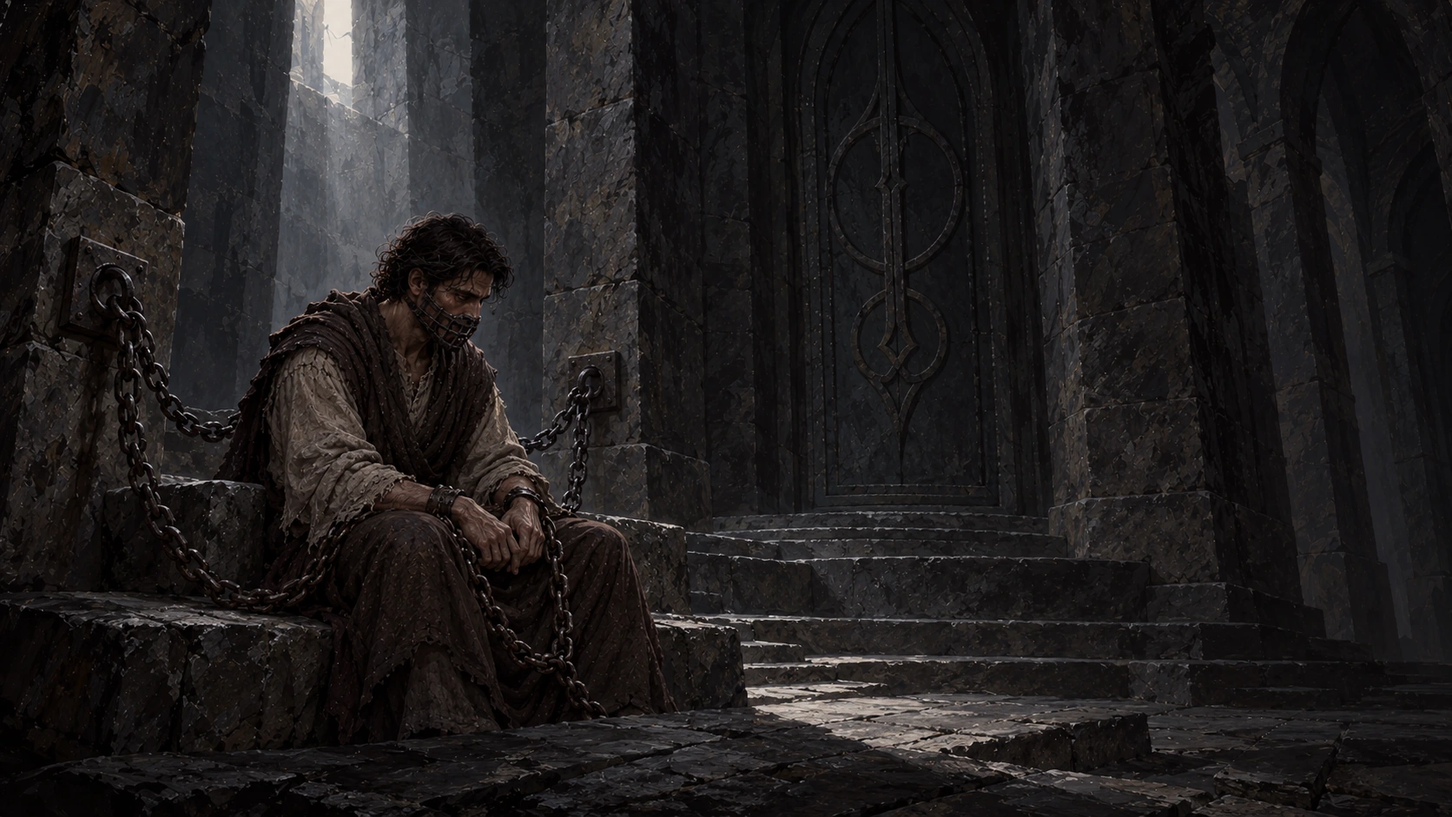
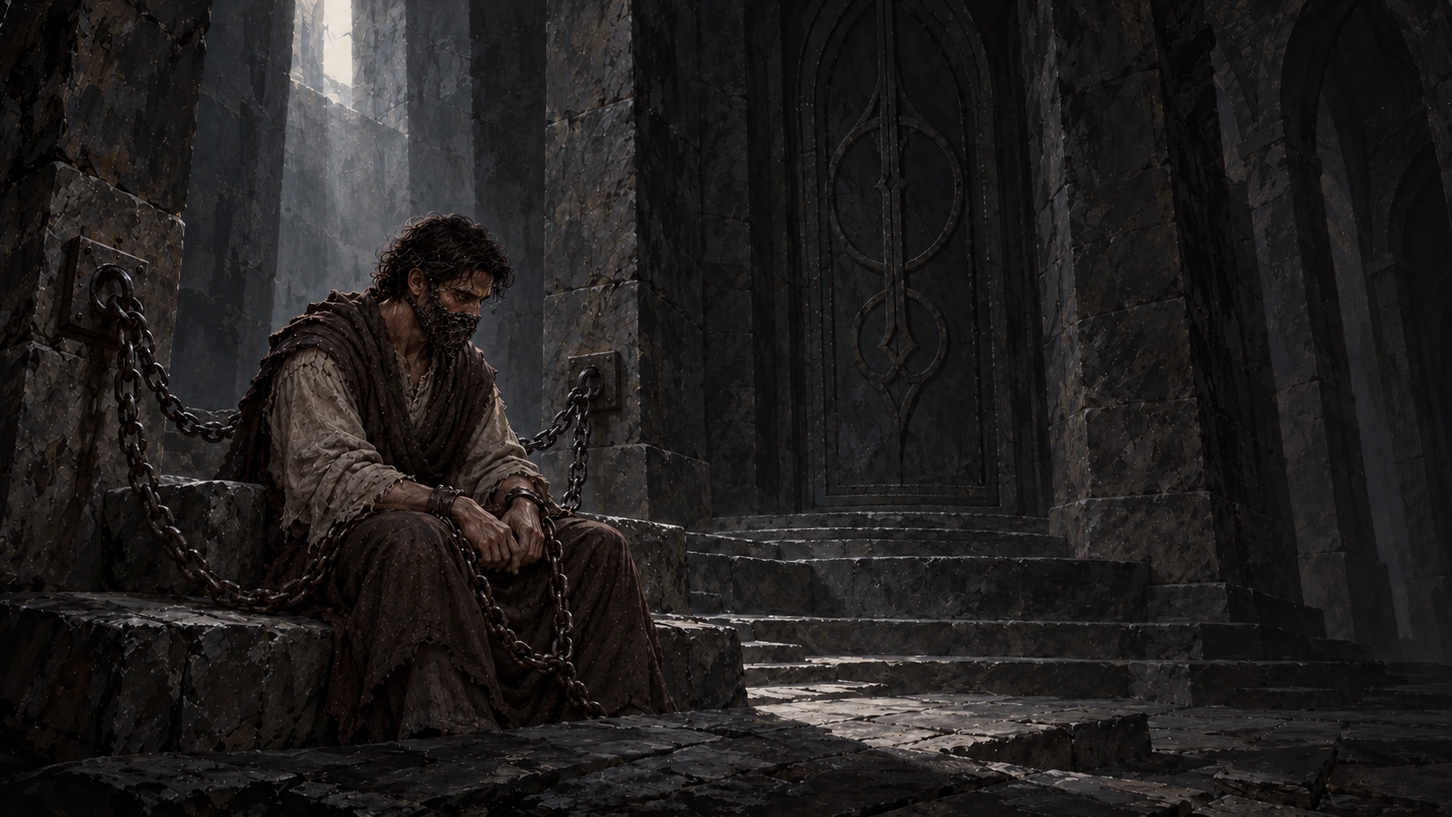
Add files via upload

diff --git a/book-data.js b/book-data.js
@@ -641,7 +641,7 @@ window.ARKVEIN_BOOK = {
       "id": "limbrein-title",
       "title": "ЛИМБРЕЙН",
       "section": "",
-      "image": "limbrein-emblem-matte-cloth.webp?v=arcwane-matte-cloth-v5-20261004",
+      "image": "limbrein-emblem-matte-cloth.webp?v=arcwane-full-page-v38-20261005",
       "alt": "ЛИМБРЕЙН",
       "caption": "Раскрытый полумесяц над готическим остриём — знак Лимбрейна.",
       "type": "chapter",
@@ -1284,7 +1284,7 @@ window.ARKVEIN_BOOK = {
       "id": "avernax-emblem",
       "title": "АВЕРНАКС",
       "section": "",
-      "image": "assets/avernax-075-emblem.webp?v=avernax-20261004-v1",
+      "image": "assets/avernax-075-emblem.webp?v=arcwane-full-page-v38-20261005",
       "alt": "АВЕРНАКС — иллюстрация истории Авернакса.",
       "caption": "Любовь · Клятва · Ведьминский круг",
       "type": "chapter",
@@ -1298,7 +1298,7 @@ window.ARKVEIN_BOOK = {
       "id": "avernax-lands",
       "title": "Земля долгого ожидания",
       "section": "Авернакс · Земли и обычаи",
-      "image": "assets/avernax-076-lands.webp?v=avernax-20261004-v1",
+      "image": "assets/avernax-076-lands.webp?v=arcwane-full-page-v38-20261005",
       "alt": "Земля долгого ожидания — иллюстрация истории Авернакса.",
       "caption": "Здесь незавершённая клятва питает чары. Обещания вплетают в древесину и нити, защищая дома и пути между ними. Авернакс верит: пока данное слово не исполнено, утрата ещё не стала окончательной.",
       "type": "story",
@@ -1315,7 +1315,7 @@ window.ARKVEIN_BOOK = {
       "id": "avernax-old-city",
       "title": "Когда город ещё жил",
       "section": "Авернакс · До разлуки",
-      "image": "assets/avernax-077-old-city.webp?v=avernax-20261004-v1",
+      "image": "assets/avernax-077-old-city.webp?v=arcwane-full-page-v38-20261005",
       "alt": "Когда город ещё жил — иллюстрация истории Авернакса.",
       "caption": "В одном из таких домов жили Невиара и Диоваль. Тогда их будущее измерялось ближайшей зимой, и никто из них не думал о бессмертии.",
       "type": "story",
@@ -1332,7 +1332,7 @@ window.ARKVEIN_BOOK = {
       "id": "avernax-together",
       "title": "До последней двери",
       "section": "Авернакс · До разлуки",
-      "image": "assets/avernax-078-together.webp?v=avernax-20261004-v1",
+      "image": "assets/avernax-078-together.webp?v=arcwane-full-page-v38-20261005",
       "alt": "До последней двери — иллюстрация истории Авернакса.",
       "caption": "Позже в её обрядах останется тот же узел. Но в тот вечер он означал только простую вещь: двое выбрали друг друга и хотели прожить рядом обычную жизнь.",
       "type": "story",
@@ -1349,7 +1349,7 @@ window.ARKVEIN_BOOK = {
       "id": "avernax-vow",
       "title": "Обещание вернуться",
       "section": "Авернакс · До разлуки",
-      "image": "assets/avernax-079-vow.webp?v=avernax-20261004-v1",
+      "image": "assets/avernax-079-vow.webp?v=arcwane-full-page-v38-20261005",
       "alt": "Обещание вернуться — иллюстрация истории Авернакса.",
       "caption": "Он отказался назвать тех, кто помог ему добыть записи об этих обрядах. Правители велели заставить его замолчать навсегда — и сделать его наказание предупреждением для остальных.",
       "type": "story",
@@ -1400,8 +1400,8 @@ window.ARKVEIN_BOOK = {
       "id": "avernax-first-year",
       "title": "Первый год заточения",
       "section": "Авернакс · Башня Диоваля",
-      "image": "assets/avernax-dioval-early.webp?v=arcwane-restored-v37-20261005",
-      "alt": "Молодой Диоваль в первые годы заточения, ещё сохранивший человеческий облик.",
+      "image": "assets/avernax-dioval-early.webp?v=arcwane-claude-gradient-v39-20261005",
+      "alt": "Молодой Диоваль в первый год заточения: рот и подбородок закрывает плетёная железная маска, глаза остаются открытыми.",
       "type": "story",
       "chapter": "avernax",
       "part": "av-prison",
@@ -1434,7 +1434,7 @@ window.ARKVEIN_BOOK = {
       "id": "avernax-tower",
       "title": "Башня без рассвета",
       "section": "Авернакс · Башня Диоваля",
-      "image": "assets/avernax-082-tower.webp?v=avernax-20261004-v1",
+      "image": "assets/avernax-082-tower.webp?v=arcwane-full-page-v38-20261005",
       "alt": "Башня без рассвета — иллюстрация истории Авернакса.",
       "caption": "Он перестал считать годы. Чтобы не забыть Невиару, он повторял её имя про себя и вспоминал, как она завязывала узлы на его рукаве.",
       "type": "story",
@@ -1468,7 +1468,7 @@ window.ARKVEIN_BOOK = {
       "id": "avernax-search",
       "title": "По ту сторону стен",
       "section": "Авернакс · Первые двадцать лет после суда",
-      "image": "assets/avernax-084-search.webp?v=avernax-20261004-v1",
+      "image": "assets/avernax-084-search.webp?v=arcwane-full-page-v38-20261005",
       "alt": "По ту сторону стен — иллюстрация истории Авернакса.",
       "caption": "Когда её лицо начало стареть, она поняла: одной человеческой жизни не хватит. Тогда она ушла в лес, к тем, кого Кернваль называл ведьмами.",
       "type": "story",
@@ -1485,7 +1485,7 @@ window.ARKVEIN_BOOK = {
       "id": "avernax-price",
       "title": "Цена лишних лет",
       "section": "Авернакс · Становление ведьмы",
-      "image": "assets/avernax-085-price.webp?v=arcwane-pages-v36-20261005",
+      "image": "assets/avernax-085-price.webp?v=arcwane-full-page-v38-20261005",
       "alt": "Цена лишних лет — иллюстрация истории Авернакса.",
       "caption": "Светловолосая женщина принесла к корням обрядовую ткань. Она знала цену, но не могла принять жизнь, в которой любимый навсегда останется один. Той ночью она переступила черту, за которой начиналось ведьмовство.",
       "type": "story",
@@ -1502,7 +1502,7 @@ window.ARKVEIN_BOOK = {
       "id": "avernax-neviara",
       "title": "Невиара",
       "section": "Авернакс · Становление ведьмы",
-      "image": "assets/avernax-086-neviara.webp?v=avernax-20261004-v1",
+      "image": "assets/avernax-086-neviara.webp?v=arcwane-full-page-v38-20261005",
       "alt": "Невиара — иллюстрация истории Авернакса.",
       "caption": "Под повязкой она больше не видела ни улиц, ни лиц. Ориентироваться помогали ведьминские чары, но они не возвращали зрение. Всё, чем она стала, было нужно для возвращения одного человека.",
       "type": "story",
@@ -1519,7 +1519,7 @@ window.ARKVEIN_BOOK = {
       "id": "avernax-curse",
       "title": "Те, кто запер дверь",
       "section": "Авернакс · Становление ведьмы",
-      "image": "assets/avernax-087-curse.webp?v=avernax-20261004-v1",
+      "image": "assets/avernax-087-curse.webp?v=arcwane-full-page-v38-20261005",
       "alt": "Те, кто запер дверь — иллюстрация истории Авернакса.",
       "caption": "Месть пережила виновных, но печать сохранилась. Невиара впервые увидела предел своей силы: наказать тюремщиков оказалось легче, чем вернуть любимого.",
       "type": "story",
@@ -1536,7 +1536,7 @@ window.ARKVEIN_BOOK = {
       "id": "avernax-mirror-making",
       "title": "Зеркало Невиары",
       "section": "Авернакс · Зеркало",
-      "image": "assets/avernax-088-mirror-making.webp?v=avernax-20261004-v1",
+      "image": "assets/avernax-088-mirror-making.webp?v=arcwane-full-page-v38-20261005",
       "alt": "Зеркало Невиары — иллюстрация истории Авернакса.",
       "caption": "Зеркало передавало образ Диоваля прямо в сознание ослепшей Невиары. В башне чары показывали ему её облик и доносили голос — без стекла и рамы. Впервые за долгие годы она увидела, что он всё ещё ждёт.",
       "type": "story",
@@ -1570,7 +1570,7 @@ window.ARKVEIN_BOOK = {
       "id": "avernax-mirror-rule",
       "title": "Расстояние в ладонь",
       "section": "Авернакс · Зеркало",
-      "image": "assets/avernax-090-mirror-rule.webp?v=arcwane-final-20261005-v34",
+      "image": "assets/avernax-090-mirror-rule.webp?v=arcwane-full-page-v38-20261005",
       "alt": "Невиара у своего зеркала видит бледного Диоваля, изменённого вечным проклятием; его глаза глубоко запали в тёмные впадины.",
       "caption": "Они выучили движения друг друга. Открытая ладонь означала «я здесь», два касания цепи — «я помню». Невиара касалась стекла, Диоваль — только видения: расстояние между ними оставалось непреодолимым.",
       "type": "story",
@@ -1587,7 +1587,7 @@ window.ARKVEIN_BOOK = {
       "id": "avernax-coven",
       "title": "Первый круг",
       "section": "Авернакс · Рождение круга",
-      "image": "assets/avernax-091-coven.webp?v=avernax-20261004-v1",
+      "image": "assets/avernax-091-coven.webp?v=arcwane-full-page-v38-20261005",
       "alt": "Первый круг — иллюстрация истории Авернакса.",
       "caption": "Так возник Авернакс. Его участники называли себя свидетелями клятвы: каждый вступал ради собственной утраты, но служил кругу, начатому ради Диоваля.",
       "type": "story",
@@ -1604,7 +1604,7 @@ window.ARKVEIN_BOOK = {
       "id": "avernax-kernval",
       "title": "Кернваль",
       "section": "Авернакс · Кернваль",
-      "image": "assets/avernax-092-kernval.webp?v=avernax-20261004-v1",
+      "image": "assets/avernax-092-kernval.webp?v=arcwane-full-page-v38-20261005",
       "alt": "Кернваль — иллюстрация истории Авернакса.",
       "caption": "Башня Диоваля виднелась с каждой высокой кровли. Невиара запретила скрывать её за новыми постройками: никто не должен был забывать, ради чего существует Авернакс.",
       "type": "story",
@@ -1621,7 +1621,7 @@ window.ARKVEIN_BOOK = {
       "id": "avernax-houses",
       "title": "Дома под узлом",
       "section": "Авернакс · Кернваль",
-      "image": "assets/avernax-093-houses.webp?v=avernax-20261004-v1",
+      "image": "assets/avernax-093-houses.webp?v=arcwane-full-page-v38-20261005",
       "alt": "Дома под узлом — иллюстрация истории Авернакса.",
       "caption": "В каждом доме оставляли закрытую комнату для незавершённой клятвы. Её не отдавали гостям и не открывали без разрешения хозяина.",
       "type": "story",
@@ -1638,7 +1638,7 @@ window.ARKVEIN_BOOK = {
       "id": "avernax-ritual-hall",
       "title": "Дом свидетелей",
       "section": "Авернакс · Кернваль",
-      "image": "assets/avernax-094-ritual-hall.webp?v=avernax-20261004-v1",
+      "image": "assets/avernax-094-ritual-hall.webp?v=arcwane-full-page-v38-20261005",
       "alt": "Дом свидетелей — иллюстрация истории Авернакса.",
       "caption": "Невиара оставила для Диоваля место рядом со своим. За столетия никто не решился занять пустое кресло.",
       "type": "story",
@@ -1706,7 +1706,7 @@ window.ARKVEIN_BOOK = {
       "id": "avernax-army",
       "title": "Те, кто идут за клятвой",
       "section": "Авернакс · Защитники Авернакса",
-      "image": "assets/avernax-098-army.webp?v=avernax-20261004-v1",
+      "image": "assets/avernax-098-army.webp?v=arcwane-full-page-v38-20261005",
       "alt": "Те, кто идут за клятвой — иллюстрация истории Авернакса.",
       "caption": "Авернакс не обещал им исцеления. Он давал имя, место и дело — и требовал, чтобы ни один связанный обещанием не был брошен в одиночестве.",
       "type": "story",
@@ -1723,7 +1723,7 @@ window.ARKVEIN_BOOK = {
       "id": "avernax-sarvel",
       "title": "Сарвель",
       "section": "Авернакс · Защитники Авернакса",
-      "image": "assets/avernax-099-sarvel.webp?v=avernax-20261004-v1",
+      "image": "assets/avernax-099-sarvel.webp?v=arcwane-full-page-v38-20261005",
       "alt": "Сарвель — иллюстрация истории Авернакса.",
       "caption": "Он отличает приглашённого гостя по узлу на его рукаве. Ведьмы развязывают свои знаки перед уходом, чтобы Сарвель не последовал за ними за пределы города.",
       "type": "story",
@@ -1740,7 +1740,7 @@ window.ARKVEIN_BOOK = {
       "id": "avernax-nerit",
       "title": "Нерит",
       "section": "Авернакс · Защитники Авернакса",
-      "image": "assets/avernax-100-nerit.webp?v=avernax-20261004-v1",
+      "image": "assets/avernax-100-nerit.webp?v=arcwane-full-page-v38-20261005",
       "alt": "Нерит — иллюстрация истории Авернакса.",
       "caption": "Когда Нерит замирает у двери, круг прекращает обряд. Ведьмы знают: за порогом уже появилось чужое вмешательство.",
       "type": "story",
@@ -1774,7 +1774,7 @@ window.ARKVEIN_BOOK = {
       "id": "avernax-witnesses",
       "title": "Свидетели круга",
       "section": "Авернакс · Защитники Авернакса",
-      "image": "assets/avernax-102-witnesses.webp?v=avernax-20261004-v1",
+      "image": "assets/avernax-102-witnesses.webp?v=arcwane-full-page-v38-20261005",
       "alt": "Свидетели круга — иллюстрация истории Авернакса.",
       "caption": "Им позволено возразить даже Невиаре. Это право возникло после первой мести, когда круг увидел, что горе способно наказать не только виновных.",
       "type": "story",
@@ -1791,7 +1791,7 @@ window.ARKVEIN_BOOK = {
       "id": "avernax-knot",
       "title": "Первый узел",
       "section": "Авернакс · Узлы и пороги",
-      "image": "assets/avernax-103-knot.webp?v=avernax-20261004-v1",
+      "image": "assets/avernax-103-knot.webp?v=arcwane-full-page-v38-20261005",
       "alt": "Первый узел — иллюстрация истории Авернакса.",
       "caption": "Если первый узел распустится, зеркало потеряет путь к узнику. Поэтому Невиара проверяет его сама — без свидетелей и без чужих рук.",
       "type": "story",
@@ -1808,7 +1808,7 @@ window.ARKVEIN_BOOK = {
       "id": "avernax-spell",
       "title": "Чужой порог",
       "section": "Авернакс · Узлы и пороги",
-      "image": "assets/avernax-104-spell.webp?v=avernax-20261004-v1",
+      "image": "assets/avernax-104-spell.webp?v=arcwane-full-page-v38-20261005",
       "alt": "Чужой порог — иллюстрация истории Авернакса.",
       "caption": "Так круг отделяет убежище от темницы. Для Невиары этот закон важнее стен: она слишком хорошо знает, что происходит за дверью, которую нельзя открыть изнутри.",
       "type": "story",
@@ -1842,7 +1842,7 @@ window.ARKVEIN_BOOK = {
       "id": "avernax-centuries",
       "title": "Тысяча зим",
       "section": "Авернакс · Путь к печати",
-      "image": "assets/avernax-106-centuries.webp?v=avernax-20261004-v1",
+      "image": "assets/avernax-106-centuries.webp?v=arcwane-full-page-v38-20261005",
       "alt": "Тысяча зим — иллюстрация истории Авернакса.",
       "caption": "Они сохранили привычку встречаться у зеркала вечером. Даже когда город забывал счёт лет, эта встреча возвращала им день, который стоило прожить.",
       "type": "story",
@@ -1859,7 +1859,7 @@ window.ARKVEIN_BOOK = {
       "id": "avernax-cost",
       "title": "Граница преданности",
       "section": "Авернакс · Путь к печати",
-      "image": "assets/avernax-107-cost.webp?v=avernax-20261004-v1",
+      "image": "assets/avernax-107-cost.webp?v=arcwane-full-page-v38-20261005",
       "alt": "Граница преданности — иллюстрация истории Авернакса.",
       "caption": "Невиара изгнала их из круга. Она искала возвращения Диоваля, а не мира, в котором никто больше не способен уйти.",
       "type": "story",
@@ -1876,7 +1876,7 @@ window.ARKVEIN_BOOK = {
       "id": "avernax-renewal",
       "title": "Обряд возвращения",
       "section": "Авернакс · Путь к печати",
-      "image": "assets/avernax-108-renewal.webp?v=avernax-20261004-v1",
+      "image": "assets/avernax-108-renewal.webp?v=arcwane-full-page-v38-20261005",
       "alt": "Обряд возвращения — иллюстрация истории Авернакса.",
       "caption": "Последней говорила Невиара. Она обещала Диовалю не лёгкую победу, а другое: ни один шаг к башне больше не будет сделан ценой тех, кого круг должен защищать.",
       "type": "story",
@@ -1893,7 +1893,7 @@ window.ARKVEIN_BOOK = {
       "id": "avernax-love",
       "title": "Любовь на века",
       "section": "Авернакс · Любовь на века",
-      "image": "assets/avernax-109-love.webp?v=avernax-20261004-v1",
+      "image": "assets/avernax-109-love.webp?v=arcwane-full-page-v38-20261005",
       "alt": "Любовь на века — иллюстрация истории Авернакса.",
       "caption": "Башня осталась закрытой. Но на этот вечер они снова были двумя людьми, которые выбрали друг друга, — и никто из хранителей не сумел отнять этот выбор.",
       "type": "story",
@@ -1910,7 +1910,7 @@ window.ARKVEIN_BOOK = {
       "id": "avernax-tomorrow",
       "title": "Пока горит окно",
       "section": "Авернакс · Любовь на века",
-      "image": "assets/avernax-110-tomorrow.webp?v=avernax-20261004-v1",
+      "image": "assets/avernax-110-tomorrow.webp?v=arcwane-full-page-v38-20261005",
       "alt": "Пока горит окно — иллюстрация истории Авернакса.",
       "caption": "Авернакс живёт между обещанием и его исполнением. Пока Диоваль ждёт и Невиара ищет, их история остаётся открытой.",
       "type": "story",

diff --git a/index.html b/index.html
@@ -6,7 +6,7 @@
 <meta name="description" content="Арквейн — иллюстрированная книга мира: земли, народы, фракции, герои и предания.">
 <title>ARCWANE — Artbook 2026</title>
 <link rel="icon" href="world-mark-v5.png" type="image/png"><link rel="stylesheet" href="style.css?v=arcwane-limbrein-title-20261003">
-<script src="book-data.js?v=arcwane-display-v37-20261005" defer></script><script src="page-fold.js?v=arcwane-v71" defer></script><script src="reader.js?v=arcwane-v71" defer></script>
+<script src="book-data.js?v=arcwane-claude-gradient-v39-20261005" defer></script><script src="page-fold.js?v=arcwane-v71" defer></script><script src="reader.js?v=arcwane-v71" defer></script>
 <style>.book:not(.closed) .chapter-page[data-index="37"]:before{background:linear-gradient(180deg,#0000 40%,#03090960 65%,#030909bb 100%)!important}@media(min-width:701px){.book:not(.closed) .chapter-page[data-index="37"] .page-copy{top:65%!important}.book:not(.closed) .chapter-page[data-index="37"] .page-art{height:90%!important;object-position:center top!important}}</style>
 <style>@media(max-width:700px){.book:not(.closed) .leaf.chapter-page[data-index="5"] .page-copy,.book:not(.closed) .leaf.chapter-page[data-index="37"] .page-copy{bottom:85px!important}}</style>
 <style>
